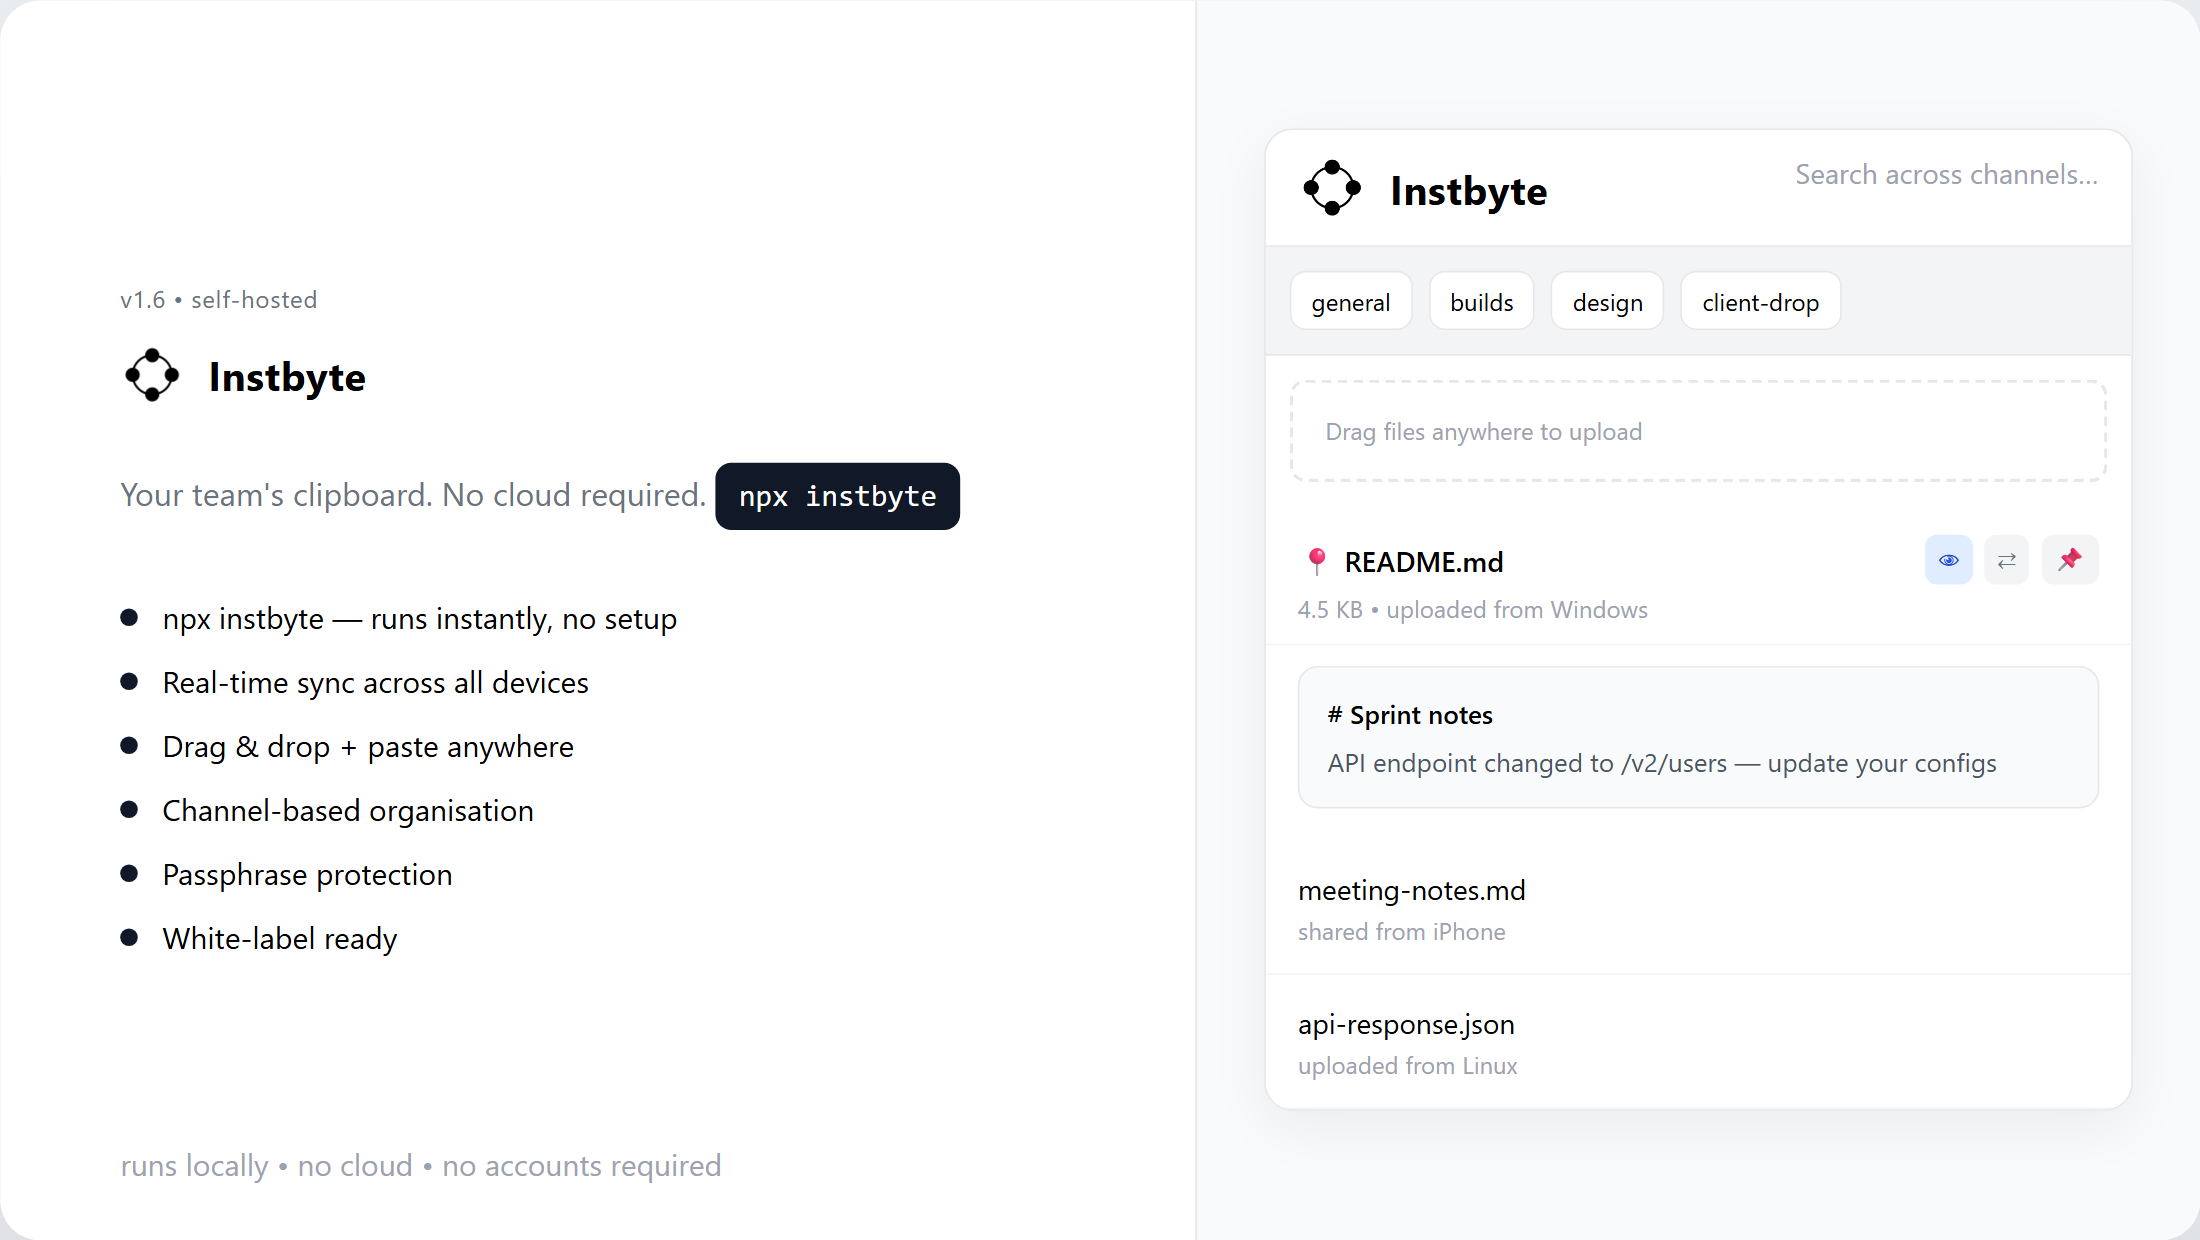
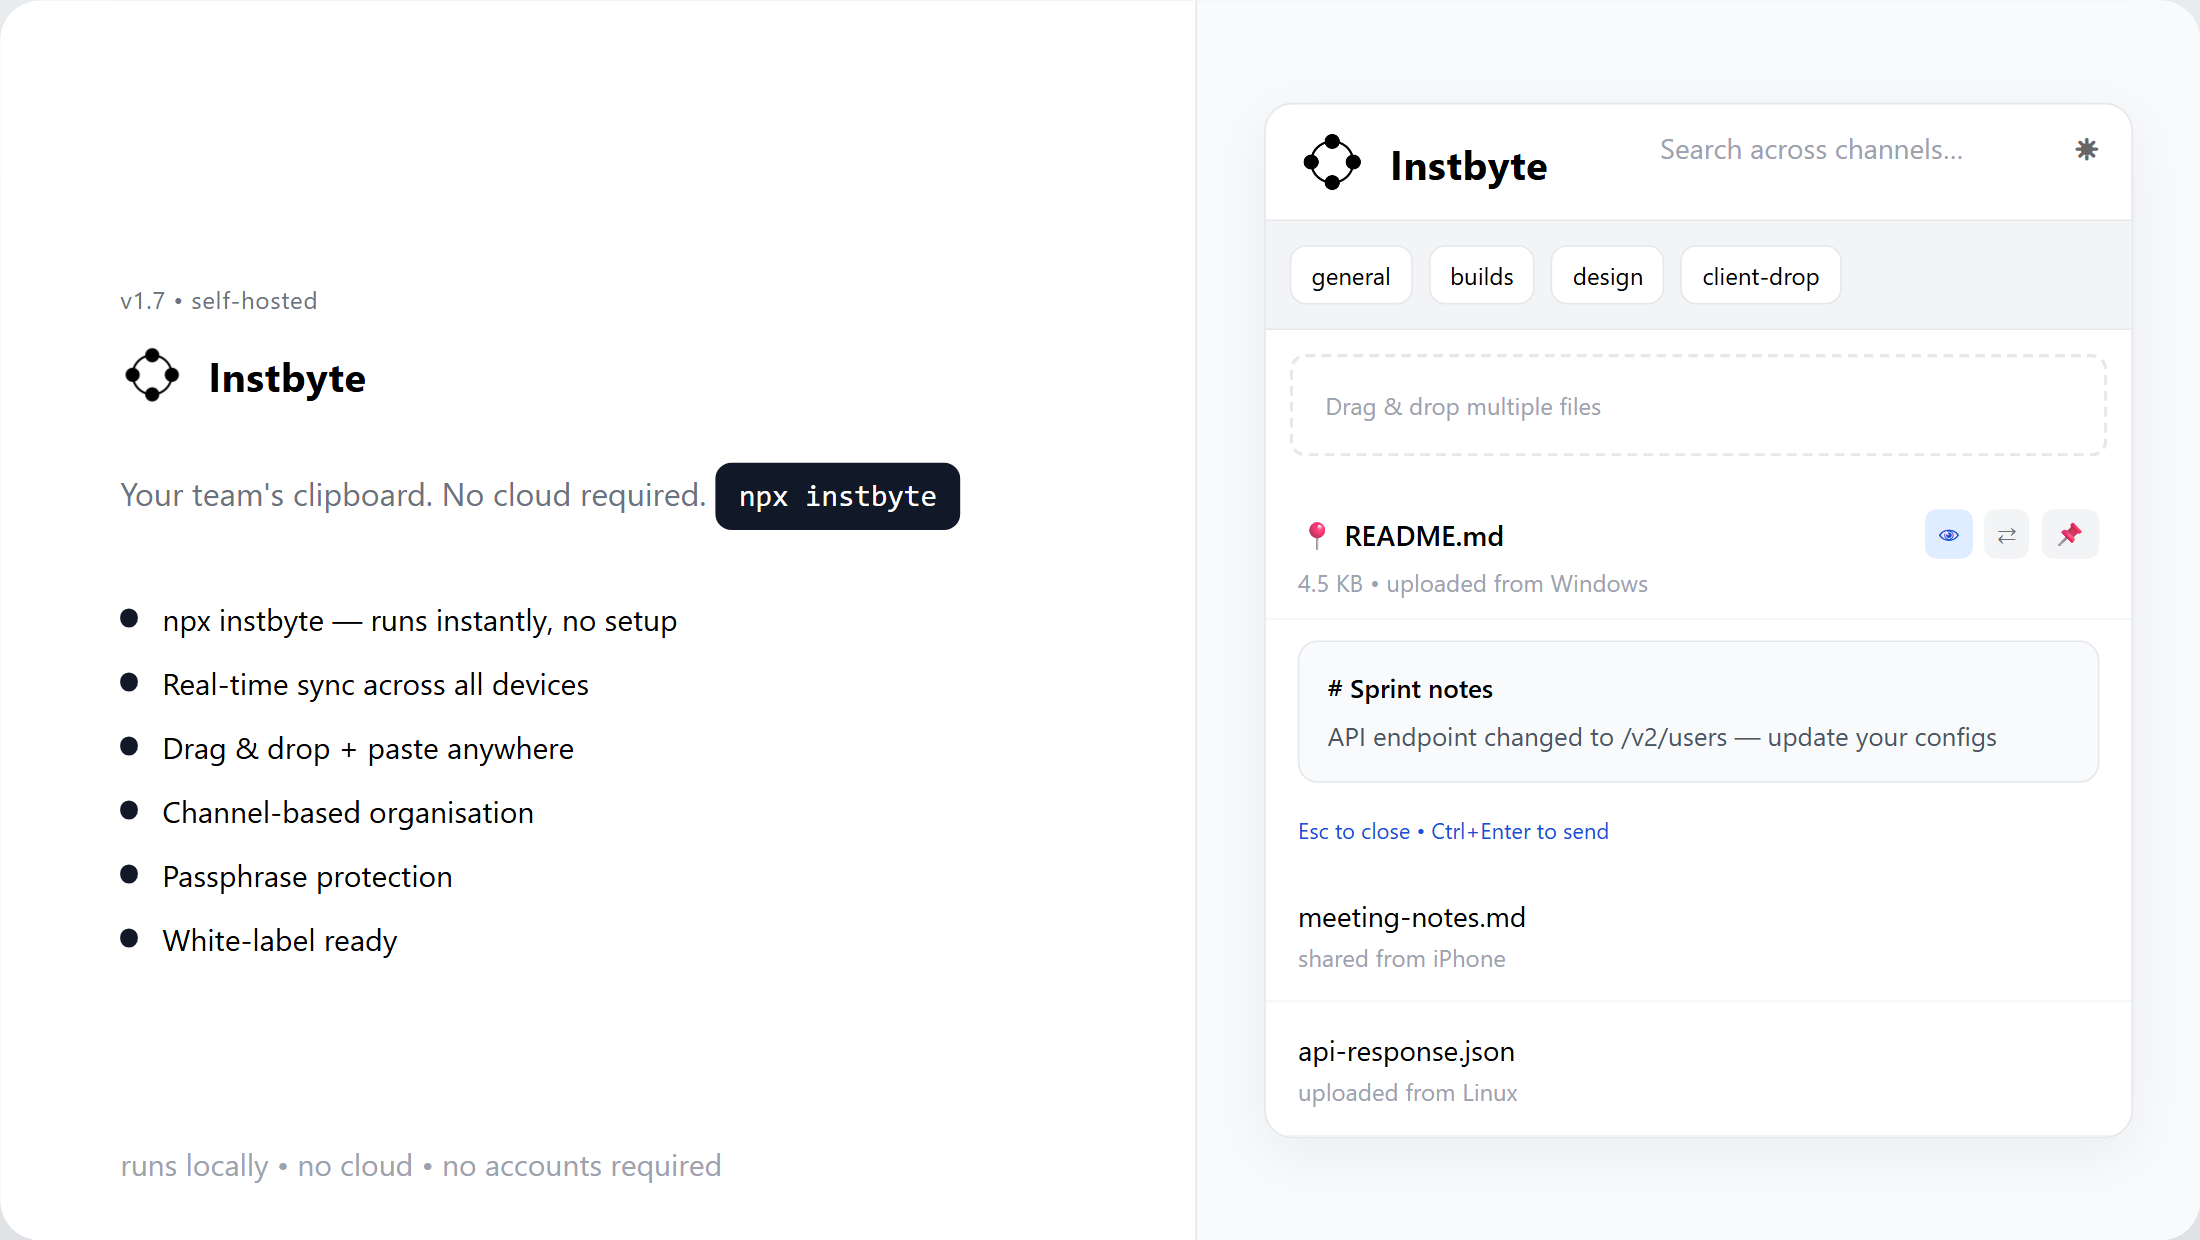
docs: update README for 1.7.0 — dark mode, shortcuts, multiple upload, delete undo security patches

diff --git a/README.md b/README.md
@@ -167,6 +167,20 @@ The difference between *a tool you use* and *a tool you own.*
 
 **QR join** — built-in QR code so phones can join instantly without typing the URL.
 
+**Dark mode** — follows system preference automatically. Override with the toggle in the header.
+
+---
+
+## Keyboard Shortcuts
+
+| Key | Action |
+|---|---|
+| `/` | Focus search |
+| `Escape` | Close previews, menus, or blur input |
+| `Ctrl/Cmd + Enter` | Send message |
+| `Ctrl/Cmd + K` | Jump to message input |
+| `Tab` | Cycle channels |
+
 ---
 
 ## Manual / Self-hosted from Source
